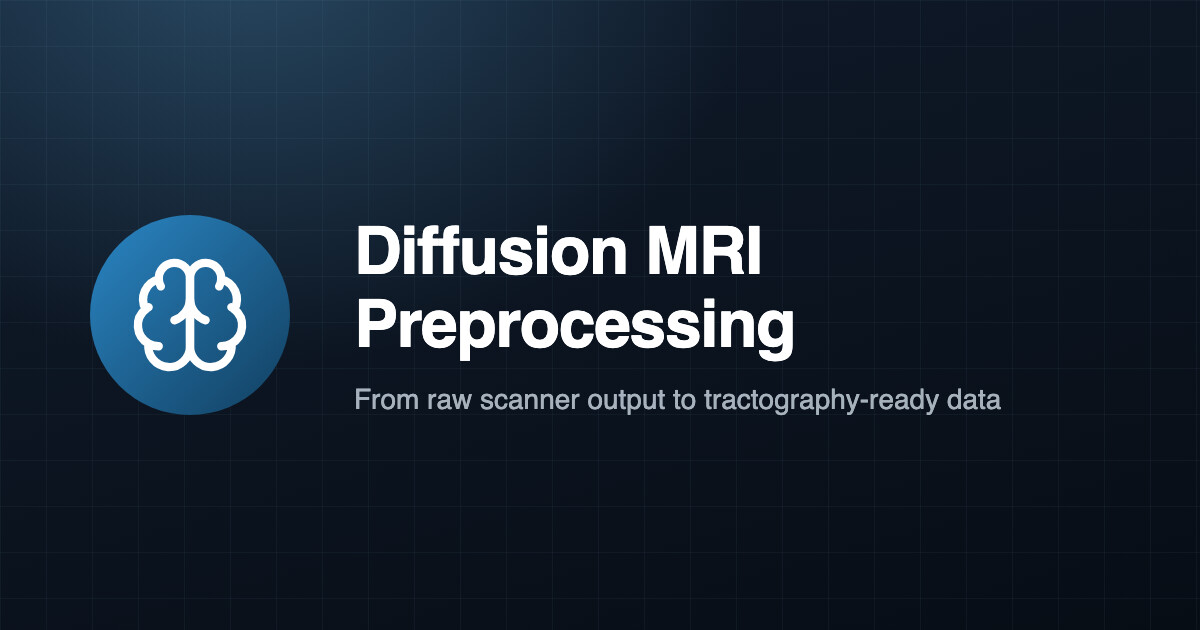
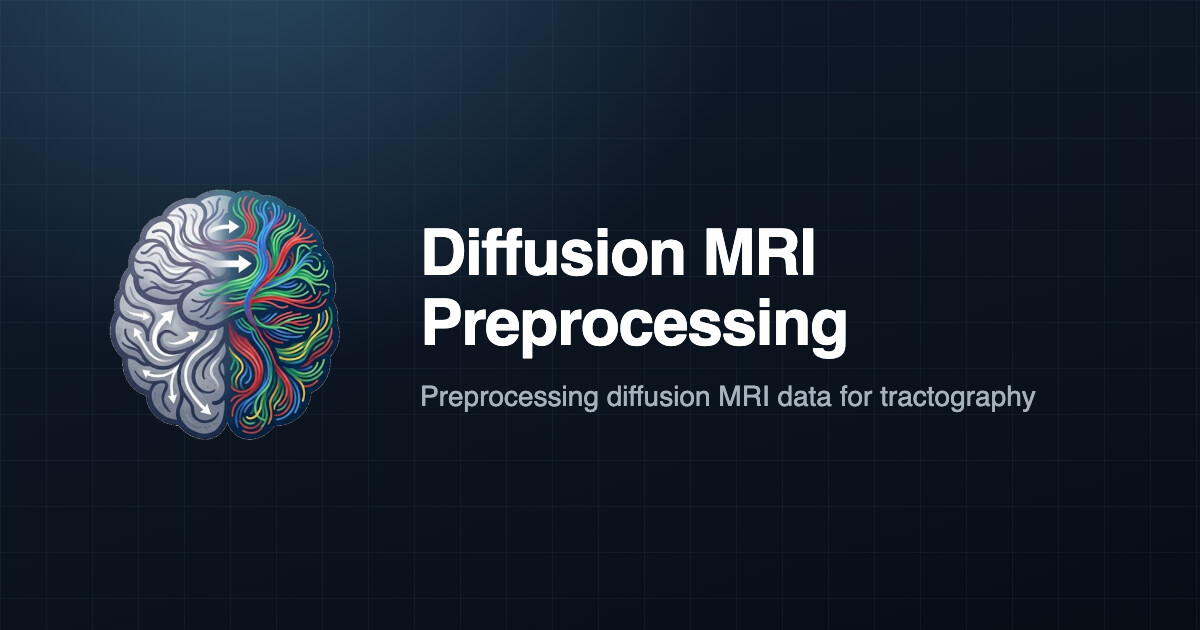
Use the brain illustration as the site mark
Replaces the drawn outline logo with the supplied artwork: one hemisphere in
grey with directional arrows, the other rendered as colored fiber tracts. The
cream background is cut to transparency and the image trimmed to the artwork,
so it sits on both the light and dark navbar without a plate behind it.

Favicon and social card regenerated from the same image.

Changed region(s): [[0.0617, 0.3016, 0.8633, 0.6937]]

diff --git a/docusaurus.config.ts b/docusaurus.config.ts
@@ -70,7 +70,7 @@ const config: Config = {
       title: 'Diffusion MRI Preprocessing',
       logo: {
         alt: 'Diffusion MRI Preprocessing',
-        src: 'img/logo.svg',
+        src: 'img/logo.png',
       },
       items: [
         {
